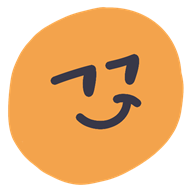
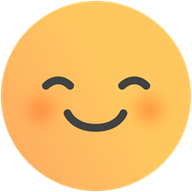
Add files via upload

diff --git a/js/pages.js b/js/pages.js
@@ -2,7 +2,7 @@
 /* สุขใจ v1.2 — หน้าจอตามดีไซน์ใหม่: ภาพรวมวันนี้ · เมนูยา · สรุปการกินยา/อารมณ์ (ดูย้อนหลังได้) · สมาชิก · ตั้งค่า */
 'use strict';
 
-const APP_VERSION = '1.3.17';
+const APP_VERSION = '1.3.18';
 // โลโก้: ขวดยาสี 4 สีหลัก (เขียว มิ้นต์ ส้ม เหลือง) วาดเป็น SVG — ขยับด้วย CSS (ปิดอัตโนมัติถ้าผู้ใช้ตั้งลดการเคลื่อนไหว)
 const LOGO_MARK = '<g class="lg-bottle"><path class="lg-star s1" d="M98 24l2.6 6.4 6.4 2.6-6.4 2.6L98 42l-2.6-6.4L89 33l6.4-2.6z" fill="#fff"/><path class="lg-star s2" d="M20 38l1.9 4.6 4.6 1.9-4.6 1.9L20 51l-1.9-4.6-4.6-1.9 4.6-1.9z" fill="#fff"/><rect x="39" y="12" width="42" height="20" rx="6" fill="#DAFF3A"/><rect x="39" y="20" width="42" height="5" fill="#4D55F5"/><rect x="45" y="31" width="30" height="9" rx="2" fill="#fff"/><rect class="lg-body" x="26" y="38" width="68" height="72" rx="18" fill="#fff"/><path d="M26 76q17-9 34 0t34 0v16q0 18-18 18H44q-18 0-18-18z" fill="#CA7FFE"/><rect x="32" y="46" width="5" height="30" rx="2.5" fill="#DDE0FF"/><g class="lg-cross"><rect x="53" y="46" width="14" height="34" rx="4" fill="#4D55F5"/><rect x="43" y="56" width="34" height="14" rx="4" fill="#4D55F5"/></g></g>';
 const logoSvg = () => `<svg viewBox="0 0 120 120" aria-hidden="true">${LOGO_MARK}</svg>`;
@@ -248,7 +248,7 @@ function viewMoodSummary() {
   const top = [...counts].sort((a, b) => b.n - a.n)[0]; const max = Math.max(1, ...counts.map((c) => c.n));
   const [y, m] = ym.split('-').map(Number); const nDays = new Date(y, m, 0).getDate(); const firstDow = new Date(y, m - 1, 1).getDay();
   return `${head}
-    <div class="card praise"><div class="praise-ic">${moodIcon(top, 'lg')}</div><div class="praise-h">ส่วนใหญ่รู้สึก${top.label}</div>
+    <div class="card praise mood-praise"><div class="praise-ic">${moodIcon(top, 'lg')}</div><div class="praise-h">ส่วนใหญ่รู้สึก${top.label}</div>
       <p class="small">บันทึกแล้ว ${logs.length} วัน ในเดือนนี้ — ขอบคุณที่ดูแลใจตัวเองนะ 💛</p></div>
     ${calCard}
     <div class="card"><b>จำนวนวันของแต่ละอารมณ์</b>
@@ -440,7 +440,7 @@ function viewSettings() {
       ${CFG.SUPPORT_URL ? row('💬', 'ช่องทางการสนับสนุน', support) : ''}
       <details class="set-det"><summary class="set-row"><span class="sr-ic">🎨</span><span class="sr-l">เครดิตไอคอน</span><span class="muted chev">›</span></summary>
         <table class="credits"><thead><tr><th>ไอคอน</th><th>designed by … from <a href="https://www.flaticon.com" target="_blank" rel="noopener">Flaticon</a></th></tr></thead><tbody>${ICON_CREDITS.map(([use, who]) => `<tr><td>${esc(use)}</td><td>${esc(who)}</td></tr>`).join('')}</tbody></table>
-        <p class="credits-note">ไอคอนจาก Flaticon ตามสัญญาอนุญาตแบบ Free (with attribution)</p></details></div>
+        <p class="credits-note">ไอคอนจาก Flaticon ตามสัญญาอนุญาตแบบ Free (with attribution)</p><p class="credits-note">ไอคอนอารมณ์ (ชุด Emoticon reaction collection): <a href="http://www.freepik.com" target="_blank" rel="noopener">Designed by Freepik</a></p></details></div>
     ${supa ? '<button class="btn ghost block" data-act="logout">ออกจากระบบ</button>'
       : '<p class="small muted">ยังไม่ได้เชื่อม Supabase — ข้อมูลอยู่ในเครื่องนี้เท่านั้น</p><div class="row"><button class="btn ghost" data-act="demo">ข้อมูลตัวอย่าง</button><button class="btn danger" data-act="wipe">ล้างข้อมูล</button></div>'}
     <p class="small muted center set-copy"><span class="sc-line">${APP_DISCLAIMER}</span><br>© 2026 สุขใจ (Sookjai)<br>สงวนลิขสิทธิ์ ห้ามคัดลอกหรือนำไปใช้โดยไม่ได้รับอนุญาต</p>`;
@@ -491,7 +491,7 @@ function showSplash() {
       <span class="app-ic ic-xl sp-logo">${logoSvg()}</span>
       <h1 class="sp-name">สุขใจ</h1>
       <p class="sp-stars" aria-hidden="true">✱ ✱ ✱</p>
-      <p class="sp-slogan"><span>จัดตารางยา จัดใบนัดแพทย์</span><span><b>แชร์ข้อมูลดูแลครอบครัวพร้อมกัน</b></span></p>
+      <p class="sp-slogan"><span>จัดตารางยา จัดใบนัดแพทย์</span><span><b>แชร์ข้อมูลดูแลครอบครัวพร้อมกัน <span class="kt">ในแอปเดียว</span></b></span></p>
       <p class="sp-ask">บันทึกยาเสร็จ สุขใจจัดตารางให้เลย!</p></div>
     <p class="sp-foot"><span class="sf-a">${APP_DISCLAIMER}</span><span class="sf-b">© 2026 สุขใจ (Sookjai) สงวนลิขสิทธิ์</span></p>`;
   document.body.appendChild(el);

diff --git a/js/util.js b/js/util.js
@@ -66,12 +66,12 @@ const numOrNull = (v) => { const s = String(v ?? '').trim(); if (!s) return null
 const defaultPrefix =(name) => String(name || '').trim().replace(/^[เแโใไ]+/, '').charAt(0);
 const PDPA_VERSION = '2026-10c';
 const MOODS = [
-  { k: 'happy', img: 'assets/moods/happy.png', label: 'ดีใจ', color: '#F3D668' },
-  { k: 'calm', img: 'assets/moods/calm.png', label: 'ชิลๆ', color: '#F3A34C' },
-  { k: 'meh', img: 'assets/moods/meh.png', label: 'เรื่อยๆ', color: '#B4CA7D' },
-  { k: 'tired', img: 'assets/moods/tired.png', label: 'หงุดหงิด', color: '#D8F368' },
-  { k: 'sad', img: 'assets/moods/sad.png', label: 'กังวล', color: '#7A7FF0' },
-  { k: 'worried', img: 'assets/moods/worried.png', label: 'โกรธ', color: '#F06A7D' },
+  { k: 'tired', img: 'assets/moods/tired.png', label: 'ขำไม่ไหว', color: '#D8F368' },
+  { k: 'happy', img: 'assets/moods/happy.png', label: 'สดใสใจฟู', color: '#F3D668' },
+  { k: 'calm', img: 'assets/moods/calm.png', label: 'ยิ้มเบาๆ', color: '#F3A34C' },
+  { k: 'meh', img: 'assets/moods/meh.png', label: 'เรื่อยๆ ชิลๆ', color: '#B4CA7D' },
+  { k: 'sad', img: 'assets/moods/sad.png', label: 'เศร้านะ', color: '#7A7FF0' },
+  { k: 'worried', img: 'assets/moods/worried.png', label: 'หัวร้อนแล้วนะ', color: '#F06A7D' },
 ]; // คีย์ k เดิม (ฐานข้อมูลเก็บเป็นคีย์ มี check constraint) — เปลี่ยนเฉพาะชื่อที่แสดงและรูป
 /** ไอคอนอารมณ์ (รูปการ์ตูนใน assets/moods) — cls: ขนาดเสริม xs/sm/lg */
 const moodIcon = (mo, cls = '') => `<img class="mood-img ${cls}" src="${mo.img}" alt="" width="48" height="48" loading="lazy">`;const moodOf = (k) => MOODS.find((x) => x.k === k);
@@ -132,3 +132,23 @@ const tint = (hex, a) => { const n = parseInt(String(hex).replace('#', '').padEn
 const showAsn = (m) => !!m.as_needed && !/เมื่อมีอาการ/.test([m.table_hint, m.warning, m.note].join(' '));
 /** ข้อความกำกับ "ไม่ใช่คำแนะนำทางการแพทย์" — ใช้ค่าเดียวนี้ทุกหน้าที่ต้องแสดง (intro, หน้าต้อนรับ, ตั้งค่า, PDF) */
 const APP_DISCLAIMER = 'สุขใจช่วยเตือนและจดบันทึก ไม่ใช่คำแนะนำทางการแพทย์';
+
+/** จัดการตัดบรรทัดข้อความไทยทั้งแอพ: ผูกตัวเลขกับคำข้างเคียง (เช่น "ใน 1 วัน" "1 เม็ด" "5 ครั้ง") ด้วยช่องว่างไม่ตัดบรรทัด — กันตัวเลข/หน่วยตกบรรทัดเดี่ยว · ทำกับข้อความที่เพิ่งแสดงขึ้นใน #app และ #modal (ไม่แตะช่องกรอก) */
+function tidyThaiText(root) {
+  if (!root || !root.ownerDocument) return;
+  const skip = /^(INPUT|TEXTAREA|SCRIPT|STYLE|SELECT|OPTION)$/;
+  const w = root.ownerDocument.createTreeWalker(root, NodeFilter.SHOW_TEXT, { acceptNode: (n) => (skip.test(n.parentNode?.nodeName || '') || n.parentNode?.classList?.contains('kt') || !/[ก-๙]/.test(n.data) || !/\d/.test(n.data) ? NodeFilter.FILTER_REJECT : NodeFilter.FILTER_ACCEPT) });
+  const list = []; while (w.nextNode()) list.push(w.currentNode);
+  list.forEach((n) => {
+    const t = n.data.replace(/([ก-๙]) (?=\d)/g, '$1\u00A0').replace(/(\d) (?=[ก-๙])/g, '$1\u00A0'); if (t !== n.data) n.data = t;
+    for (const re of KEEP_TOGETHER_RE) { const m = re.exec(n.data); if (!m) continue; // วลีที่ต้องเป็นก้อนเดียวกัน ห้ามแตกคนละบรรทัด
+      const doc = n.ownerDocument; const after = n.splitText(m.index); after.data = after.data.slice(m[0].length); const kt = doc.createElement('span'); kt.className = 'kt'; kt.textContent = m[0]; n.parentNode.insertBefore(kt, after); break; }
+  });
+}
+/** วลีที่ต้องเป็นก้อนเดียวกันเสมอ (ผู้ใช้สั่งไว้) — ใช้กับทุกสมาชิก/ทุกหน้าที่แสดงวลีนี้ · เพิ่มวลีใหม่ที่นี่ที่เดียว */
+const KEEP_TOGETHER = ['ตารางการกินยาใน 1 วัน'];
+const KEEP_TOGETHER_RE = KEEP_TOGETHER.map((s) => new RegExp(s.replace(/[.*+?^${}()|[\]\\]/g, '\\$&').replace(/ /g, '[\\s\\u00A0]')));
+document.addEventListener('DOMContentLoaded', () => {
+  const obs = new MutationObserver((muts) => { muts.forEach((m) => m.addedNodes.forEach((n) => { if (n.nodeType === 1) tidyThaiText(n); else if (n.nodeType === 3 && n.parentNode) tidyThaiText(n.parentNode); })); });
+  ['app', 'modal'].forEach((id) => { const el = document.getElementById(id); if (el) { tidyThaiText(el); obs.observe(el, { childList: true, subtree: true }); } });
+});

diff --git a/styles.css b/styles.css
@@ -1915,3 +1915,26 @@ select { padding-top: 12px; padding-bottom: 12px; }
 .mood-img.lg { width: 72px; height: 72px; }
 .mood-cal .ad-d small { min-height: 32px; }
 .mood-cal .ad-d { min-height: 78px; }
+
+/* v1.3.17 — ชื่อตารางกินยาในหน้าแอพ: ไม่ให้คำว่า "วัน" ตกบรรทัดเดียวโดดๆ (ขึ้นบรรทัดใหม่ทั้งก้อน "ใน 1 วัน") */
+.dt-head > div:not(.av) b { text-wrap: balance; }
+
+/* v1.3.17 — การตัดบรรทัดข้อความไทยทั้งแอพ: หัวข้อ/ปุ่ม/ป้าย จัดให้สมดุล · ข้อความยาวไม่ปล่อยคำเดี่ยวท้ายย่อหน้า (ใช้ร่วมกับ tidyThaiText ใน util.js ที่ผูกตัวเลขกับหน่วย) */
+h1, h2, h3, h4, .btn, button, .tag, .chip, .pill-btn, .alert b, .card > b, .praise-h, .ad-title, .set-h, .mr-nm .name, label > span { text-wrap: balance; }
+p, li, .small, .muted, small { text-wrap: pretty; }
+
+/* v1.3.17 — วลีที่ต้องเป็นก้อนเดียวกัน (KEEP_TOGETHER ใน util.js): ย้ายขึ้นบรรทัดใหม่ทั้งก้อน ไม่แตกกลางวลี */
+.kt { display: inline-block; }
+
+/* v1.3.18 — ชื่ออารมณ์ในการ์ดใช้ตัวบางลง (600 จาก 700) */
+.mood-opt b { font-weight: var(--fw-semi, 600); }
+
+/* v1.3.18 — การ์ดสรุปอารมณ์ 1 เดือน: "ส่วนใหญ่รู้สึก…" ห่างจากไอคอน ขนาดเท่าชื่อเดือน (22px) แต่บางกว่า (600) */
+.mood-praise .praise-h { margin-top: var(--sp-4, 16px); font-size: var(--fs-h2, 22px); font-weight: var(--fw-semi, 600); line-height: var(--lh-title, 1.3); }
+
+/* v1.3.18 — "ส่วนใหญ่รู้สึก…" ชิดกับข้อความ "บันทึกแล้ว … วัน" ด้านล่าง */
+.mood-praise .praise-h { margin-bottom: 0; }
+.mood-praise p.small { margin-top: var(--sp-1, 4px); }
+
+/* v1.3.18 — หน้า intro: ขยับเนื้อหาลงมา ลดพื้นที่ว่างระหว่างปุ่มกับข้อความท้ายหน้า (เว้นด้านบนมากขึ้นตามความสูงจอ จอเตี้ยเว้นน้อยลงอัตโนมัติ) */
+#splash { padding-top: clamp(24px, 17vh, 130px); }

diff --git a/sw.js b/sw.js
@@ -2,7 +2,7 @@
 /* สุขใจ — Service Worker: เปิดแอพได้แม้ไม่มีอินเทอร์เน็ต (เก็บตัวแอพไว้ในเครื่อง) + รับ Web Push และเปิดแอพเมื่อแตะการแจ้งเตือน
  * ข้อมูลสุขภาพไม่ถูกเก็บที่นี่ — แอพเก็บสำเนาข้อมูลล่าสุดเองในเครื่อง (ดู SupaDB.saveSnapshot) · คำขอไป Supabase ไม่ผ่านแคชนี้
  */
-const CACHE = 'sukjai-app-v124';
+const CACHE = 'sukjai-app-v136';
 const SHELL = ['./', 'index.html', 'styles.css', 'fonts/fonts.css', 'fonts/sarabun-thai-400-normal.woff2', 'fonts/sarabun-latin-400-normal.woff2', 'fonts/sarabun-thai-500-normal.woff2', 'fonts/sarabun-latin-500-normal.woff2', 'fonts/sarabun-thai-600-normal.woff2', 'fonts/sarabun-latin-600-normal.woff2', 'fonts/sarabun-thai-700-normal.woff2', 'fonts/sarabun-latin-700-normal.woff2', 'fonts/prompt-thai-300-normal.woff2', 'fonts/prompt-latin-300-normal.woff2', 'fonts/prompt-thai-400-normal.woff2', 'fonts/prompt-latin-400-normal.woff2', 'fonts/prompt-thai-500-normal.woff2', 'fonts/prompt-latin-500-normal.woff2', 'fonts/prompt-thai-600-normal.woff2', 'fonts/prompt-latin-600-normal.woff2', 'fonts/prompt-thai-700-normal.woff2', 'fonts/prompt-latin-700-normal.woff2', 'fonts/prompt-thai-800-normal.woff2', 'fonts/prompt-latin-800-normal.woff2', 'config.js', 'manifest.json', 'icon.svg?v=2', 'icon-192.png?v=2', 'icon-180.png?v=2',
   'js/util.js', 'js/limits.js', 'js/avatars.js', 'js/db.js', 'js/app.js', 'js/forms.js', 'js/care.js', 'js/more.js', 'js/pages.js', 'js/pdfcanvas.js', 'js/history.js', 'js/stickers.js', 'js/health.js', 'js/report.js', 'js/premium.js', 'js/notify.js',
   'assets/icons/medicine.png', 'assets/icons/schedule.png', 'assets/icons/home.png', 'assets/icons/family.png', 'assets/icons/settings.png',

diff --git a/js/app.js b/js/app.js
@@ -331,7 +331,7 @@ function viewLogin(mode = 'in', msg = '') {
           <span class="app-ic ic-xl sp-logo">${logoSvg()}</span>
           <h1 class="sp-name">สุขใจ</h1>
           <p class="sp-stars" aria-hidden="true">✱ ✱ ✱</p>
-          <p class="sp-slogan"><span>จัดตารางยา จัดใบนัดแพทย์</span><span><b>แชร์ข้อมูลดูแลครอบครัวพร้อมกัน</b></span></p>
+          <p class="sp-slogan"><span>จัดตารางยา จัดใบนัดแพทย์</span><span><b>แชร์ข้อมูลดูแลครอบครัวพร้อมกัน <span class="kt">ในแอปเดียว</span></b></span></p>
           <p class="sp-ask">บันทึกยาเสร็จ สุขใจจัดตารางให้เลย!</p>
         </div>
         <div class="wel-actions">
